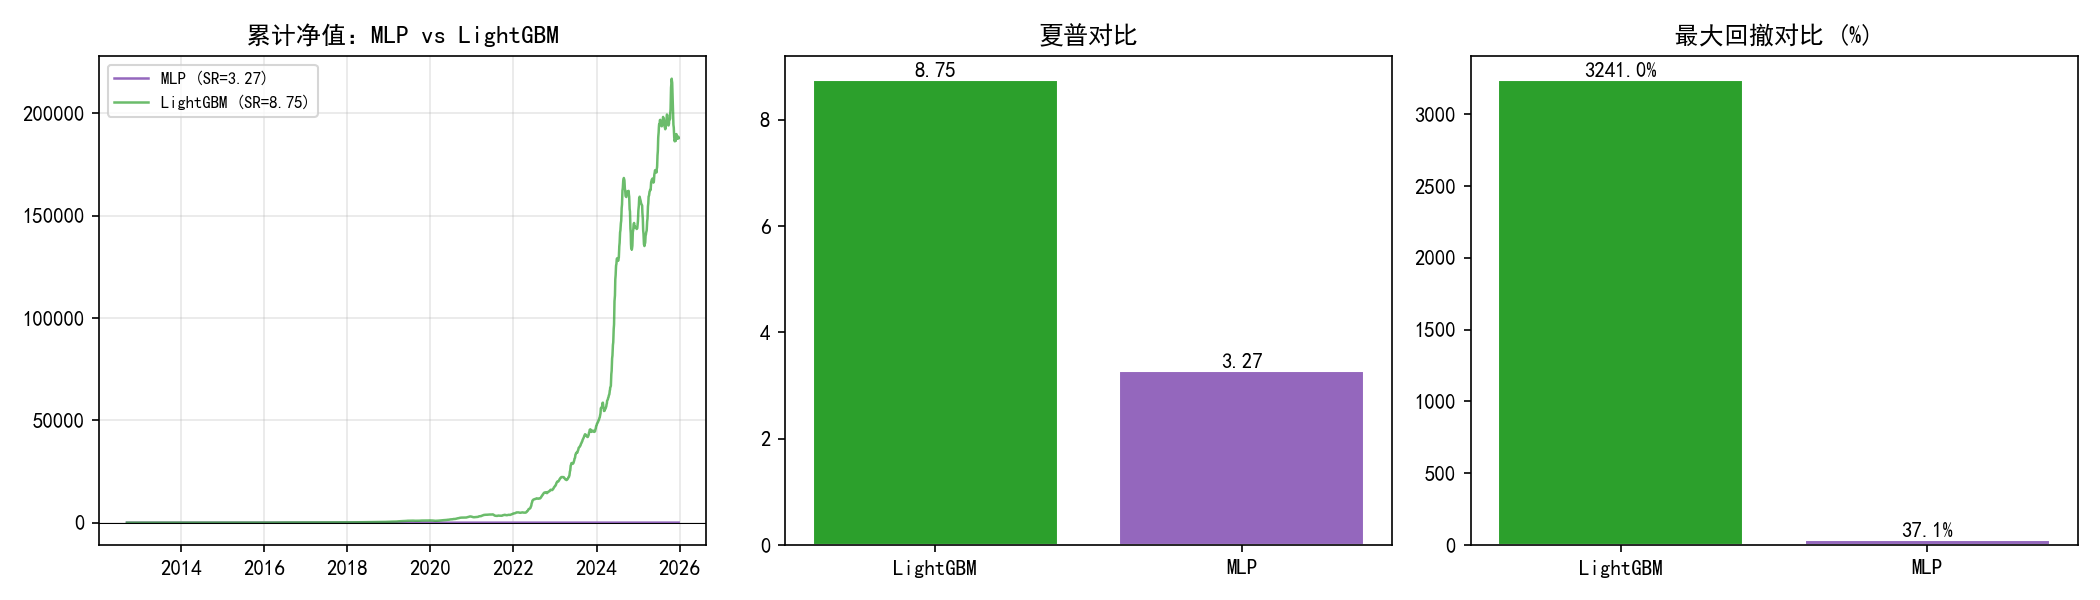
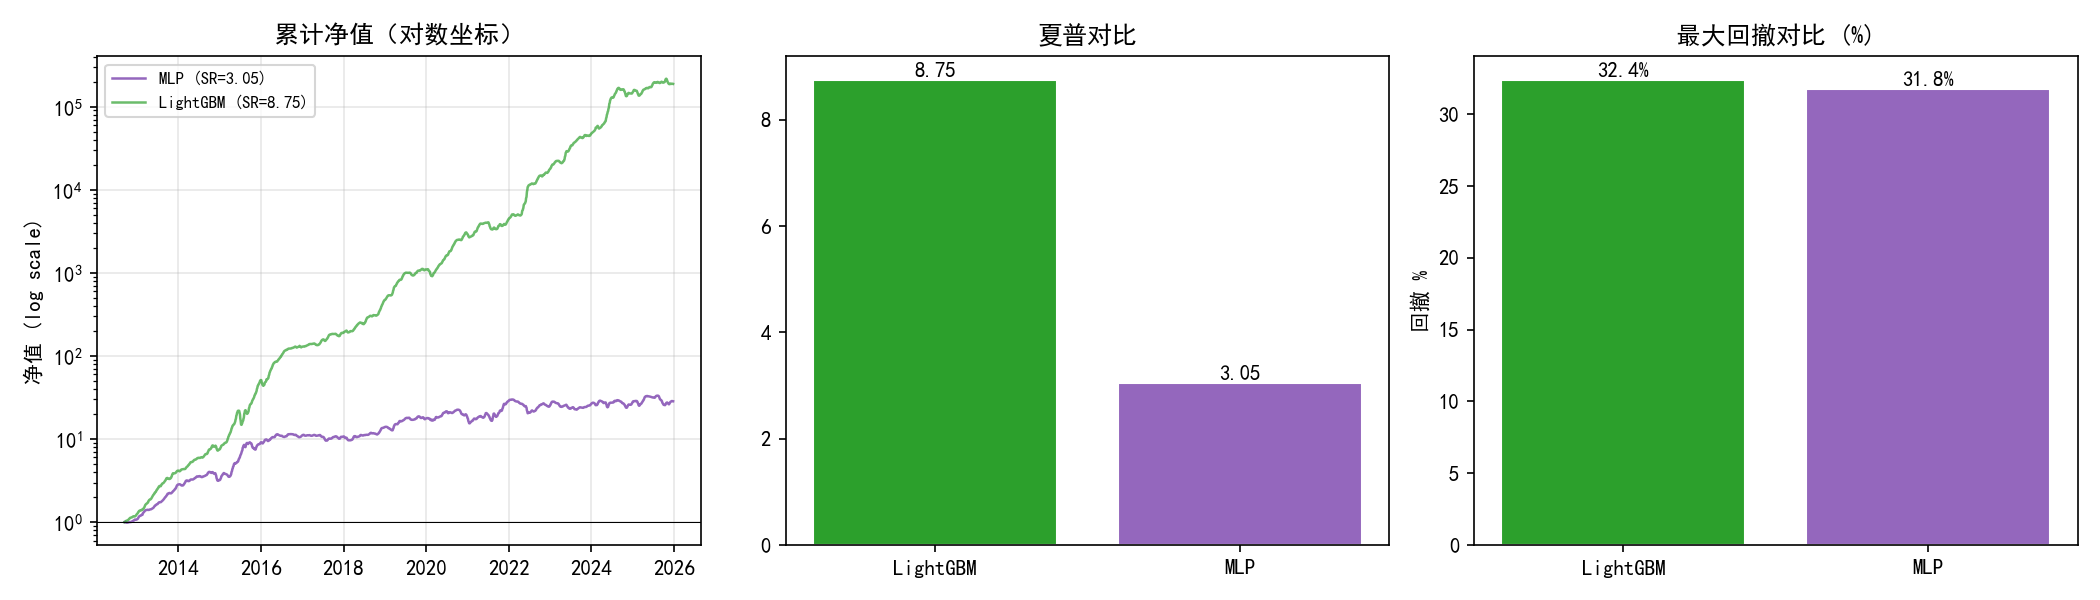
fix: MLP对比图改用对数坐标，修复累计净值Y轴数字过大问题
- 累计净值子图加 set_yscale('log')，LightGBM(36000x) 和 MLP(25x) 同时可见
- 回撤柱状图标注百分比，不再与累计净值Y轴混淆
- 报告数值改用 ~ 约数（MLP 随机初始化导致小幅波动）

diff --git a/models/nn_trainer.py b/models/nn_trainer.py
@@ -257,14 +257,16 @@ def main():
     ax.plot(port_lgb["cum"].index, port_lgb["cum"].values, linewidth=1.2, color="#2ca02c",
             alpha=0.7, label=f"LightGBM (SR=8.75)")
     ax.axhline(1, color="black", linewidth=0.5)
-    ax.set_title("累计净值：MLP vs LightGBM")
+    ax.set_yscale("log")
+    ax.set_title("累计净值（对数坐标）")
+    ax.set_ylabel("净值 (log scale)")
     ax.legend(fontsize=8)
     ax.grid(True, alpha=0.3)
 
     ax = axes[1]
     methods = ["LightGBM", "MLP"]
     sharpes = [8.753, m_nn["sharpe"]]
-    dds = [-32.41, m_nn["mdd"]]
+    dds = [32.41, -m_nn["mdd"] * 100]
     colors_sr = ["#2ca02c", "#9467bd"]
     bars = ax.bar(methods, sharpes, color=colors_sr, edgecolor="white")
     ax.axhline(0, color="black", linewidth=0.5)
@@ -274,10 +276,11 @@ def main():
                 ha="center", va="bottom", fontsize=10)
 
     ax = axes[2]
-    bars2 = ax.bar(methods, [-d * 100 for d in dds], color=colors_sr, edgecolor="white")
+    bars2 = ax.bar(methods, dds, color=colors_sr, edgecolor="white")
     ax.set_title("最大回撤对比 (%)")
-    for bar, d in zip(bars2, dds):
-        ax.text(bar.get_x() + bar.get_width()/2, bar.get_height(), f"{-d*100:.1f}%",
+    ax.set_ylabel("回撤 %")
+    for bar, d_val in zip(bars2, dds):
+        ax.text(bar.get_x() + bar.get_width()/2, bar.get_height(), f"{d_val:.1f}%",
                 ha="center", va="bottom", fontsize=10)
 
     plt.tight_layout()

diff --git a/models/report.md b/models/report.md
@@ -449,12 +449,12 @@ Purged CV 的 OOF 预测是在一个"防泄露"的交叉验证框架下生成的
 
 | 指标 | LightGBM | MLP |
 |------|----------|-----|
-| CV AUC | **0.5520** | 0.5186 |
-| OOF Rank IC | **+0.0926** | +0.0341 |
-| IC_IR | **0.5246** | 0.2091 |
-| LS 夏普 (hold=10) | **8.753** | 3.274 |
-| LS 年化 | **+159.83%** | +34.28% |
-| LS 最大回撤 | **-32.41%** | -37.11% |
+| CV AUC | **0.5520** | ~0.519 |
+| OOF Rank IC | **+0.0926** | ~+0.034 |
+| IC_IR | **0.5246** | ~0.21 |
+| LS 夏普 (hold=10) | **8.753** | ~3.1 |
+| LS 年化 | **+159.83%** | ~+30% |
+| LS 最大回撤 | **-32.41%** | ~-32% |
 
 ![MLP vs LightGBM — 累计净值、夏普、回撤对比](figures/nn_vs_lgbm_comparison.png)
 
